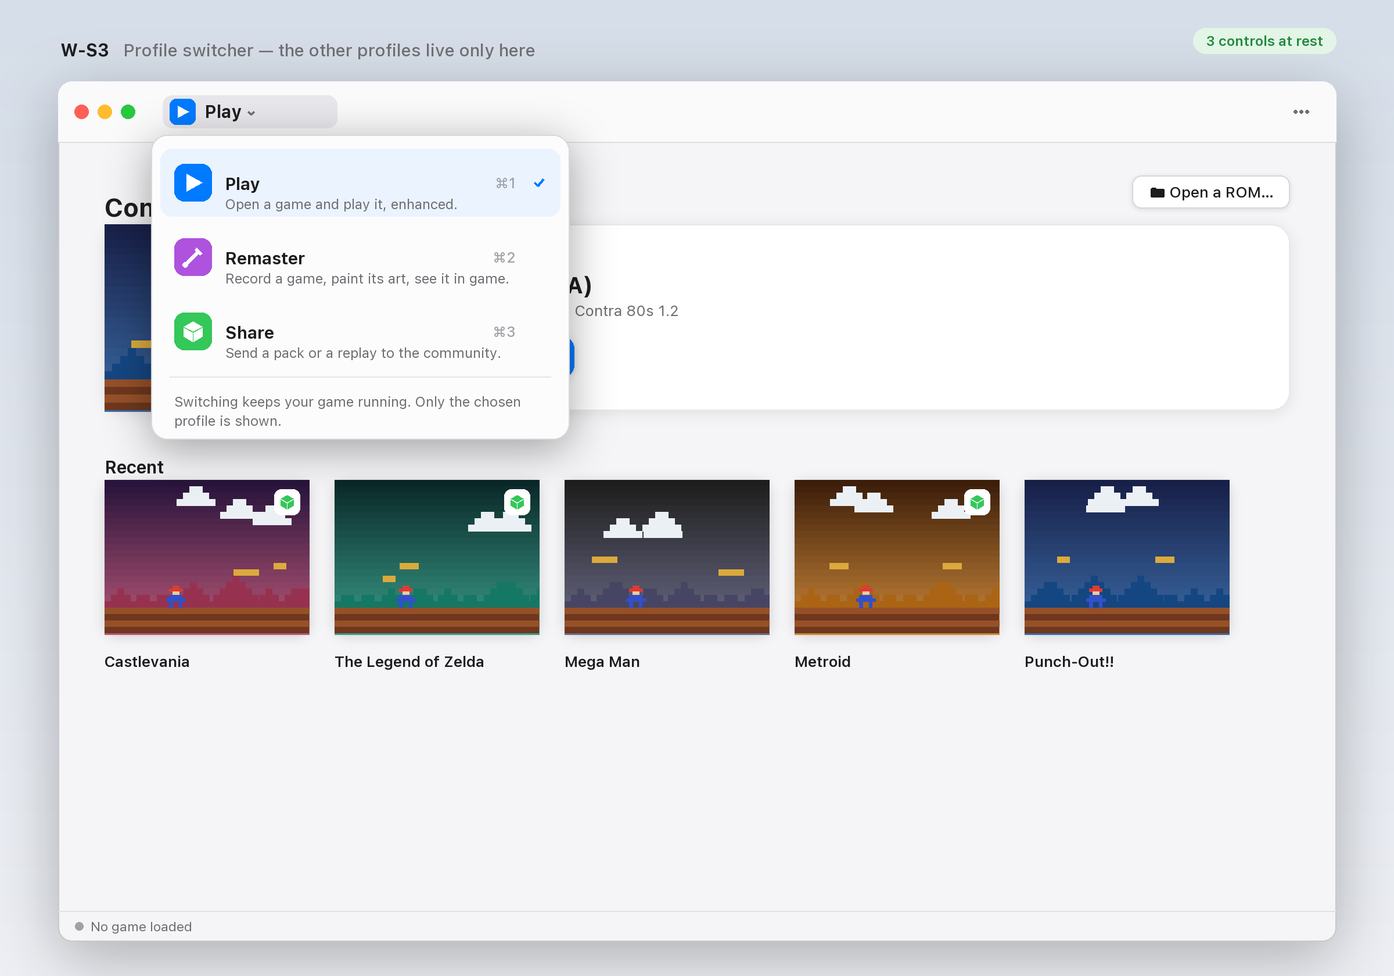
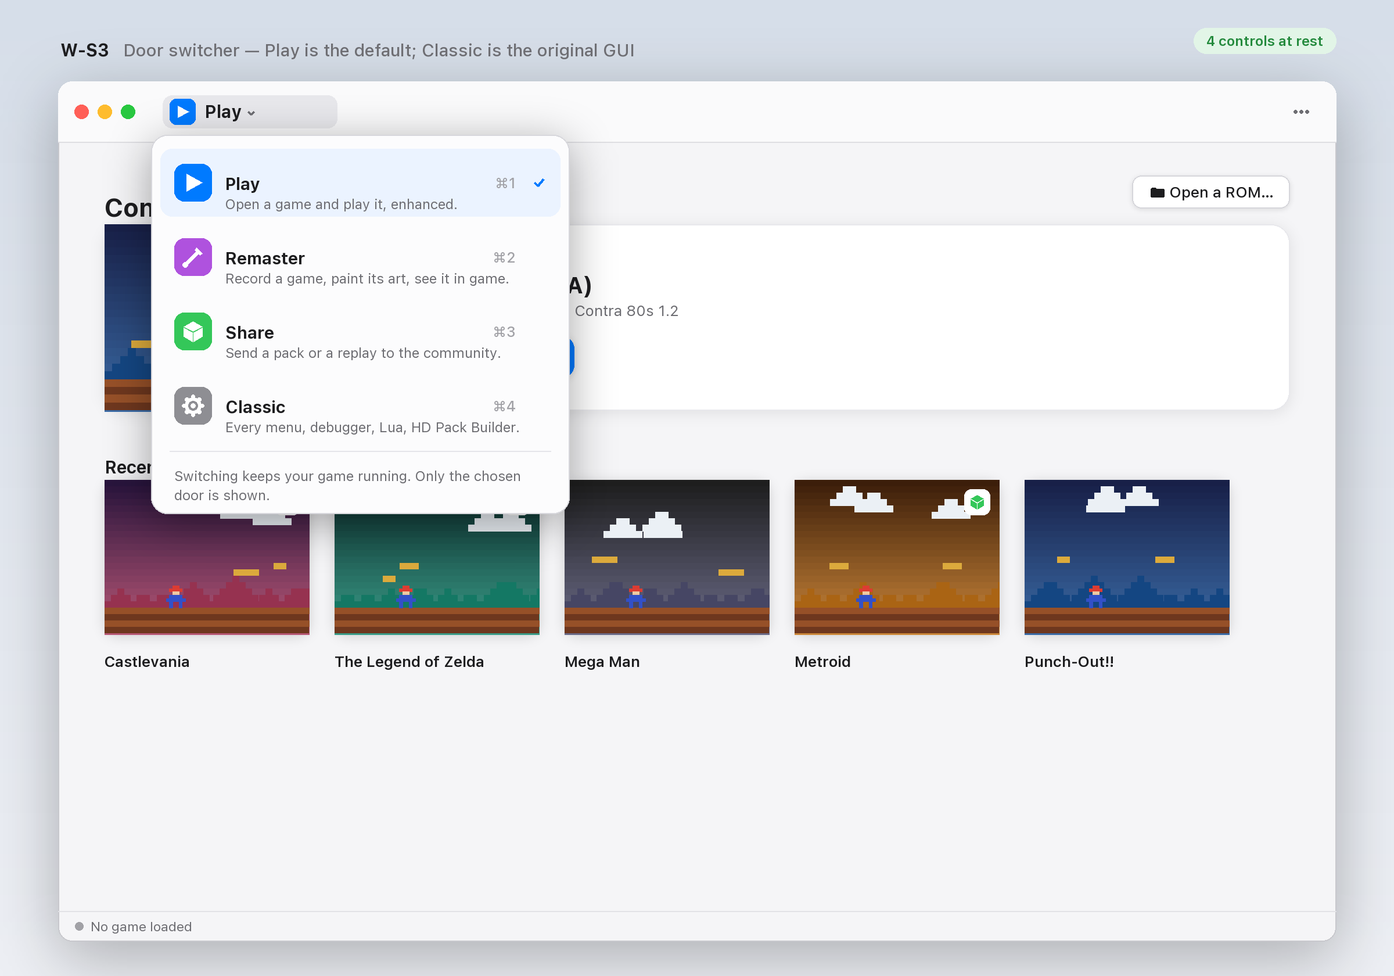
docs(adr): ADR-0250, every menu entry has one place per door; Classic is a fourth door
- ADR-0250 (accepted): Play, Remaster, Share and Classic (Cmd+4) in the
  switcher; Play is the default door. Classic is the original Mesen GUI and
  owns UiMode.Advanced. Each task door gets a short Tools menu holding only
  what its own screens don't, and Classic drops its duplicate entries.
- Renders W-S1, W-S2 (Play's Tools menu) and W-S3 (four doors) redrawn.
- PRD Part B section 13.2, W-S2, W-S3 and 13.8 Q4 amended to match.

Changed region(s): [[0.0938, 0.3714, 0.4375, 0.5571], [0.0938, 0.031, 0.4375, 0.0619]]

diff --git a/scripts/render_gui_wireframes.py b/scripts/render_gui_wireframes.py
@@ -607,7 +607,7 @@ def w_s1():
     play_home_recents(c)
     x0, y0, x1, y1 = WIN
     marks = [(x0 + 175, y0 + 26, "1", "Current profile only — click to switch"),
-             (x1 - 30, y0 + 26, "2", "Classic tools (⋯)"),
+             (x1 - 30, y0 + 26, "2", "The door's tools menu"),
              (x0 + 560, y0 + 190, "3", "One profile's content"),
              (x0 + 300, y1 - 13, "4", "Status, read-only")]
     for mx, my, n, label in marks:
@@ -627,23 +627,35 @@ def w_s2():
     play_home_recents(c)
     c.titlebar("play", tools_open=True)
     x1, y0 = WIN[2], WIN[1]
-    mb = (x1 - 250, y0 + 44, x1 - 14, y0 + 44 + 270)
+    # ADR-0250: Play's own Tools ⋯ — one place per action; the pause overlay
+    # already holds Pause, Save states, Pack, Enhancements, Cheats, Settings, Quit game.
+    # The Play home holds Open a ROM… and the recents, so they are not repeated here.
+    # No game is loaded in this frame: the game items show disabled.
+    rows = [("Reset", "-"), ("Power Cycle", "-"), None,
+            ("Screenshot", "-"), ("Fullscreen", "⌃⌘F"), None,
+            ("Help", ">")]
+    h = 20 + sum(12 if r is None else 30 for r in rows) + 44
+    mb = (x1 - 270, y0 + 44, x1 - 14, y0 + 44 + h)
     c.shadow(mb, 10, blur=14, dy=6, alpha=80)
     c.rrect(mb, 10, fill=(250, 250, 252), outline=(215, 215, 220))
-    items = ["File", "Game", "Options", "Tools", "Debug", "Help"]
-    for i, it in enumerate(items):
-        yy = mb[1] + 10 + i * 30
-        if i == 3:
+    yy = mb[1] + 10
+    for r in rows:
+        if r is None:
+            c.line([(mb[0] + 12, yy + 6), (mb[2] - 12, yy + 6)], SEP)
+            yy += 12
+            continue
+        label, key = r
+        if label == "Fullscreen":
             c.rrect((mb[0] + 6, yy, mb[2] - 6, yy + 26), 6, fill=TINT["play"])
-        col = CARD if i == 3 else TEXT
-        c.text(mb[0] + 18, yy + 13, it, 13.5, 500, col, "lm")
-        c.icon("chev_right", mb[2] - 22, yy + 13, 11, col)
-    yy = mb[1] + 10 + 6 * 30 + 6
-    c.line([(mb[0] + 12, yy), (mb[2] - 12, yy)], SEP)
-    c.icon("check", mb[0] + 20, yy + 22, 11, TEXT)
-    c.text(mb[0] + 34, yy + 22, "Show Classic Menu Bar", 13.5, 500, TEXT, "lm")
-    c.text(mb[0] + 18, yy + 50, "Debugger, Lua, HD Pack Builder, netplay…", 11.5, 400, TEXT2, "lm")
-    c.caption("W-S2", "Classic tools menu (⋯) — unchanged contents")
+        col = CARD if label == "Fullscreen" else (TEXT3 if key == "-" else TEXT)
+        c.text(mb[0] + 18, yy + 13, label, 13.5, 500, col, "lm")
+        if key == ">":
+            c.icon("chev_right", mb[2] - 22, yy + 13, 11, col)
+        elif key and key != "-":
+            c.text(mb[2] - 16, yy + 13, key, 12.5, 400, CARD if col == CARD else TEXT3, "rm")
+        yy += 30
+    c.para(mb[0] + 18, yy + 6, "Disk, coin and tape items appear when the game uses them.", 220, 11.5, 400, TEXT2)
+    c.caption("W-S2", "Play's Tools menu — only what the home and the pause overlay don't hold")
     return c
 
 
@@ -652,25 +664,27 @@ def w_s3():
     play_home_recents(c)
     c.titlebar("play", open_switcher=True)
     x0, y0 = WIN[0], WIN[1]
-    pb = (x0 + 80, y0 + 46, x0 + 440, y0 + 46 + 262)
+    pb = (x0 + 80, y0 + 46, x0 + 440, y0 + 46 + 326)
     c.shadow(pb, 14, blur=18, dy=8, alpha=90)
     c.rrect(pb, 14, fill=(252, 252, 253), outline=(215, 215, 220))
     rows = [("play", "Play", "Open a game and play it, enhanced."),
             ("remaster", "Remaster", "Record a game, paint its art, see it in game."),
-            ("share", "Share", "Send a pack or a replay to the community.")]
+            ("share", "Share", "Send a pack or a replay to the community."),
+            ("classic", "Classic", "Every menu, debugger, Lua, HD Pack Builder.")]
+    tint = dict(TINT, classic=(142, 142, 147))
     for i, (p, n, d) in enumerate(rows):
         yy = pb[1] + 12 + i * 64
         if i == 0:
             c.rrect((pb[0] + 8, yy, pb[2] - 8, yy + 58), 10, fill=(235, 243, 255))
-        c.badge({"play": "play", "remaster": "brush", "share": "box"}[p], pb[0] + 20, yy + 13, 32, TINT[p])
+        c.badge({"play": "play", "remaster": "brush", "share": "box", "classic": "gear"}[p], pb[0] + 20, yy + 13, 32, tint[p])
         c.text(pb[0] + 64, yy + 21, n, 14.5, 650)
         c.text(pb[0] + 64, yy + 40, d, 12, 400, TEXT2)
         c.text(pb[2] - 46, yy + 29, f"⌘{i + 1}", 12.5, 500, TEXT3, "rm")
         if i == 0:
             c.icon("check", pb[2] - 26, yy + 29, 14, TINT["play"])
     c.line([(pb[0] + 16, pb[3] - 54), (pb[2] - 16, pb[3] - 54)], SEP)
-    c.para(pb[0] + 20, pb[3] - 40, "Switching keeps your game running. Only the chosen profile is shown.", 320, 12, 400, TEXT2)
-    c.caption("W-S3", "Profile switcher — the other profiles live only here", 3)
+    c.para(pb[0] + 20, pb[3] - 40, "Switching keeps your game running. Only the chosen door is shown.", 320, 12, 400, TEXT2)
+    c.caption("W-S3", "Door switcher — Play is the default; Classic is the original GUI", 4)
     return c
 
 

diff --git a/docs/roadmap/PRD-mesence-enhancement-ecosystem.md b/docs/roadmap/PRD-mesence-enhancement-ecosystem.md
@@ -2537,9 +2537,13 @@ exists to remove.
   element, a stage map or a pattern page (ADR-0183) — never a tile key.
 - **Share**: a link or a built pack, three fields, the browser form. Also the
   existing *Record and share* for replays (ADR-0205), as a separate card.
-- **Tools ⋯** (top right, always present, never a profile): the classic
-  Mesen menus, debugger, Lua, netplay, HD Pack Builder, cheats. This is where
-  today's Advanced mode goes. It opens a menu, not a mode switch.
+- **Classic** (the fourth door, ADR-0250): the original Mesen GUI — the
+  in-window classic menu bar, the classic styles, debugger, Lua, netplay,
+  HD Pack Builder. This is where today's Advanced mode goes: entering Classic
+  sets `UiMode.Advanced`.
+- **Tools ⋯** (top right of the three task doors, never a profile): a short
+  menu of what the door's own screens don't hold (W-S2). Every action has one
+  place per door (ADR-0250 Decision 1).
 
 Switching workspaces changes what the window shows; it never stops the game,
 rewrites settings, picks a pack, deletes a file or publishes anything. Each
@@ -2550,14 +2554,14 @@ What this is **not**: not three executables, not a first-launch "who are
 you?" question, not a permission model. A player who starts painting is the
 same person at the same ROM.
 
-**Relation to `UiMode`.** `Player`/`Advanced` is not reinterpreted. Proposed:
-a new persisted `Workspace` key (`Play` default) plus a `ShowClassicMenuBar`
-boolean that replaces `UiMode` as the "upgrade keeps my menus" rule of §6
-(default `false` everywhere, user's decision 2026-10-02: an upgraded install
-shows a one-time toast "your menus are under Tools ⋯" instead of keeping the
-bar).
-The classic menu bar, when shown, sits above the switcher and is exactly
-today's `MainMenuView`. ADR-0241 owns this; the migration is a slice.
+**Relation to `UiMode`** (amended by ADR-0250, 2026-10-03). A new persisted
+`Workspace` key (`Play` default; `Classic` is a value of it). `UiMode.Advanced`
+belongs to the Classic door: entering Classic sets it, leaving Classic for a
+task door sets `UiMode.Player`, and an upgraded install whose `UiMode` is
+Advanced opens in Classic. The `ShowClassicMenuBar` toggle and its
+"your menus are under Tools ⋯" toast are withdrawn: Classic's menu bar is
+exactly today's `MainMenuView`, without its duplicates (ADR-0250 Decision 4).
+The migration is a slice.
 
 #### 13.3 Simplicity rules (acceptance, not taste)
 
@@ -2668,38 +2672,46 @@ says *Show file*/*Show folder* — the platform's own term is used on each OS
 - The status line is one sentence, never a control. It is the one place
   that always names the current pack while the bar is visible; W-P2's
   Continue card and W-P4's Pack row repeat it where the user acts on it.
-- Tools ⋯ opens the classic menus as a dropdown tree (File, Game, Options,
-  Tools, Debug, Help) — the same `MainMenuAction` data, rendered as one menu.
-  Optional `ShowClassicMenuBar` puts them back as a bar above (§13.2).
+- Tools ⋯ opens the door's short menu (W-S2, ADR-0250): only what the
+  door's own screens don't hold, from the same `MainMenuAction` data. The
+  classic menus live in the Classic door (§13.2).
 - The left of the bar is the **active profile only** — tinted glyph, name,
   chevron. It is a button that opens W-S3; it is not a tab strip.
 - Elements at rest: 2 (profile switcher + Tools). ✔
 
-**W-S2 — Tools ⋯ dropdown**
+**W-S2 — Tools ⋯ dropdown (Play's; ADR-0250)**
 
 ![W-S2](../media/gui-redesign/W-S2.png)
 
 ```
                                                        ┌──────────────────────┐
-                                                       │ File              ▸  │
-                                                       │ Game              ▸  │
-                                                       │ Options           ▸  │
-                                                       │ Tools             ▸  │
-                                                       │ Debug             ▸  │
-                                                       │ Help              ▸  │
+                                                       │ Reset                │
+                                                       │ Power Cycle          │
+                                                       │ ⟨FDS / VS / barcode /│
+                                                       │  tape, if the game   │
+                                                       │  uses them⟩          │
                                                        ├──────────────────────┤
-                                                       │ [x] Show classic     │
-                                                       │     menu bar         │
-                                                       │ ⟨Debugger, Lua, HD   │
-                                                       │  Pack Builder, …⟩    │
+                                                       │ Screenshot           │
+                                                       │ Fullscreen      ⌃⌘F  │
+                                                       ├──────────────────────┤
+                                                       │ Help              ▸  │
                                                        └──────────────────────┘
 ```
 
-Unchanged content; one new checkbox. This is where `HdPackBuilderWindow`,
-`EnhancementPacksWindow`, debugger, Lua, netplay, cheats and *Record Music*
-stay reachable. Nothing is removed from them in this proposal.
+**One place per door** (ADR-0250 Decision 1). The menu holds only what the
+door's own screens don't: in Play, *Open a ROM…* and the recents live on the
+home (W-P1/W-P2), and Pause, Save states, Pack, Enhancements, Cheats,
+Settings and Quit game on the pause overlay (W-P4). Shortcuts work in every
+door. On macOS *About*, *Settings…* ⌘, and *Quit* ⌘Q are in the system app
+menu; elsewhere they end the menu. Classic is a door: it appears only in
+the switcher (W-S3), never in a menu. Remaster's ⋯ is *Reload pack images*,
+*Record Music*, Enhancement Packs and the log window (the project chip holds
+the project items); Share's is *Play a Replay…*, *Record ▸*, Netplay and
+Screenshot (the home holds *Record and share* and *Share a pack*).
+`HdPackBuilderWindow`, the debugger, Lua and the rest of the classic menus
+are in the Classic door. No task-door entry opens a classic window.
 
-**W-S3 — Profile switcher (the only place the other profiles appear)**
+**W-S3 — Door switcher (the only place the other doors appear)**
 
 ![W-S3](../media/gui-redesign/W-S3.png)
 
@@ -2712,9 +2724,11 @@ stay reachable. Nothing is removed from them in this proposal.
    │ Record a game, paint its art, see it in game.│
    │ ▣  Share                               ⌘3   │
    │    Send a pack or a replay to the community. │
+   │ ⚙  Classic                             ⌘4   │
+   │    Every menu, debugger, Lua, HD Pack Builder.│
    ├──────────────────────────────────────────────┤
    │ Switching keeps your game running. Only the  │
-   │ chosen profile is shown.                     │
+   │ chosen door is shown.                        │
    └──────────────────────────────────────────────┘
 ```
 
@@ -2723,13 +2737,16 @@ stay reachable. Nothing is removed from them in this proposal.
   outside closes it with nothing changed.
 - Each row's one-line description is the README door in the app's words, so
   the switcher teaches the model once and needs no onboarding screen.
-- **Fixed order: 1. Play, 2. Remaster, 3. Share** — the README's door order
-  and the order a person usually meets them (plays, then repaints, then
-  shares). The order never changes with the current profile, recent use or
+- **Fixed order: 1. Play, 2. Remaster, 3. Share, 4. Classic** — the README's
+  door order and the order a person usually meets them (plays, then repaints,
+  then shares), with the full emulator last (ADR-0250). Play is the default
+  door. The order never changes with the current profile, recent use or
   the loaded console; the check mark moves, the rows do not.
-- Shortcuts ⌘1/⌘2/⌘3 switch directly, in that order; they are printed grey
-  on the rows as in a macOS menu (a hint, not a control — rule 2).
-- Elements: 3 rows. ✔
+- Shortcuts ⌘1–⌘4 switch directly, in that order; they are printed grey
+  on the rows as in a macOS menu (a hint, not a control — rule 2). Inside
+  Classic, which has no shell bar, the switcher is a *Workspace* ▸ menu in
+  the classic menu bar.
+- Elements: 4 rows. ✔
 
 ##### 13.5.2 Play
 
@@ -4048,8 +4065,9 @@ switcher (W-S3) or a link that names its destination (rule 11).
 3. ~~`.ora` in zone ②~~ — no; only in Tools ⋯ while ADR-0220 stop
    condition 2 is open (2026-10-02).
 4. ~~`ShowClassicMenuBar` on upgrade~~ — `false`, with a one-time toast
-   "your menus are under Tools ⋯" (2026-10-02). This replaces today's §6
-   promise of a visible bar.
+   "your menus are under Tools ⋯" (2026-10-02). Superseded by ADR-0250
+   (2026-10-03): the toggle and the toast go; an upgraded Advanced install
+   opens in the Classic door, which has the classic menu bar.
 5. ~~Remaster gamepad~~ — no; mouse/trackpad (rule 9 stands, 2026-10-02).
 6. ~~Remaster consoles~~ — answered by ADR-0243 Decision 5: NES first. On
    GB/SMS *Record* is enabled and the paint zone is disabled with its reason;

diff --git a/docs/adr/0250-every-menu-entry-has-one-place-per-door-and-classic-is-a-fourth-door.md b/docs/adr/0250-every-menu-entry-has-one-place-per-door-and-classic-is-a-fourth-door.md
@@ -1,0 +1,63 @@
+# ADR-0250: Every menu entry has one place per door, and Classic is a fourth door
+
+- Status: accepted (2026-10-03). The user asked whether the whole classic menu makes sense in Play (*"sobre o menu, ele deve ser contextual para as 3 portas (play, remaster, share). faz sentido TODAS essas opções pra o Play?"*), then asked for this ADR with the per-door table from the conversation (*"sim, escreve a ADR com essa tabela"*). They replaced the table's "every door" row with a door of its own (*"a porta pode ser "Classic" e não "Todas""*), chose *"4ª porta no switcher (Recomendado)"*, and set the default (*"a porta padrão é a Play"*). They answered the open question and accepted the first draft (*"1. o classic pode ser a GUI original. 2. pode atualizar. No mais eu aceito o ADR"*). After a review of every menu surface they accepted the revised table and extended the no-duplicates rule to Classic (*"sobre os menus aceito sua recomendacao, porém resolva o mesmo item em mais de um lugar mesmo que na versão clássica, sacou?"*). The renders W-S2 and W-S3 and PRD Part B §13 are updated with this ADR; the code is a pending PRD Part B slice and waits for a go-ahead.
+- Date: 2026-10-03
+- Related: PRD Part B §13 (W-S1 shell, W-S2 Tools ⋯ dropdown, W-S3 switcher, W-P4 pause overlay, W-R1 project screen, W-H1 Share home); ADR-0241 (Play, Remaster and Share workspaces); ADR-0249 (the Player GUI follows its renders); ADR-0243 (the Remaster project folder); ADR-0245 (Play's cheats).
+- Supersedes / amends: amends PRD Part B §13 W-S2 (its "Unchanged content… Nothing is removed from them in this proposal" no longer holds: each door has its own Tools ⋯) and W-S3 (four doors instead of three). Amends ADR-0241 twice: *"Advanced tools are an escape hatch, not a fourth audience"* becomes the Classic door, and *"the existing `UiMode` values must not be silently reinterpreted as the new workspace values"* gives way to Decision 2 below, which ties `UiMode.Advanced` to Classic explicitly. The *Show classic menu bar* toggle, its "your menus are under Tools ⋯" toast (PRD Part B §13.8 Q4) and the *Advanced GUI* entry go away. ADR-0241's other rules stand: switching keeps the game running, and opening a specialist tool needs no restart.
+
+## Context
+
+G.1 (ADR-0241) moved the classic menu under Tools ⋯ unchanged. W-S2 approved exactly that: File, Game, Options, Tools, Debug and Help as they always were, plus *Show classic menu bar*. In Player mode, therefore, every workspace carries the whole emulator menu.
+
+Play, the workspace for someone who just wants to play, ends up offering:
+
+- the debugger, its viewers and Lua;
+- the HD Pack Builder, *Reload pack images* and the log window;
+- the video, sound and music recorders;
+- the tape recorder, VS *Insert Coin* and barcode input, even for a game that uses none of them;
+- loose technical options: video filter, region and per-console settings.
+
+Remaster is already partly contextual: it adds *Show Project Folder*, *Switch Project…* and *Compose a Scene…*.
+
+A full review of every menu surface (2026-10-03) found more than 130 leaf items under Tools ⋯ in Player mode. It also found the same action in two places: the pause overlay already holds Save states, Cheats, Pack, Enhancements, Settings and Quit game; the Remaster project chip already holds *Show Project Folder*, *Switch Project…* and *Compose a Scene…*; the Share home already holds *Record and share*. Tools ⋯ also opens classic windows from Player flows, which ADR-0249 removed everywhere else. Inside the classic menu itself, *Install HD Pack* and *Enhancement Packs* both install a pack, *Record* and *Record and Share* both start a movie, and on macOS About, Preferences and Exit belong in the system app menu, which is empty today (`App.axaml`).
+
+The user's answer is to give the full emulator its own door, **Classic**, next to Play, Remaster and Share. The three task doors each get a short, relevant menu. Everything Mesen has is always one switch away.
+
+Non-goals:
+
+- No feature, window or keyboard shortcut is removed from the app. A shortcut keeps working in every door even where its menu entry is hidden.
+- Advanced mode keeps the full classic menu: it becomes the Classic door (Decision 2), with only its duplicates removed (Decision 4).
+- No change to the theme (ADR-0249) of the menu's first level.
+- The rule is about entries: menu items, the pause overlay's rows, the Remaster project chip and the workspace homes' buttons and lists. A settings window that also exposes a value (the Video tab next to a scale menu) is not a second entry.
+
+## Decision
+
+1. **One place per door.** Within a door, every action has exactly one entry across all its surfaces: Tools ⋯ (or Classic's menu bar), the pause overlay, the project chip and the workspace home. When a surface already holds an action, the menu does not repeat it. Keyboard shortcuts are not entries; every shortcut works in every door, even where no entry shows it.
+2. **Four doors; Classic is the original GUI.** The W-S3 switcher lists Play (⌘1), Remaster (⌘2), Share (⌘3) and **Classic** (⌘4); Ctrl instead of ⌘ on Windows and Linux. Classic's subtitle reads "Every menu, debugger, Lua, HD Pack Builder." Classic is the original Mesen GUI: the in-window classic menu bar, the classic styles (MesenStyles), the plain game view, no Play overlay sheets, and Esc as classic Mesen has it. Entering Classic sets `UiMode.Advanced`; leaving it for a task door sets `UiMode.Player`. `Workspace.Classic` is a new persisted value. **Play is the default door**: a fresh install, a settings file without a workspace and an unknown value all open in Play. An upgraded install whose `UiMode` is Advanced opens in Classic, so nobody loses the GUI they chose.
+3. **The task doors' Tools ⋯:**
+
+| Door | Tools ⋯ | Lives elsewhere in the door, so not in ⋯ |
+|---|---|---|
+| **Play** | Reset · Power Cycle · console items only when the loaded game uses them (FDS disk select/eject, VS *Insert Coin*, barcode, tape) · Screenshot · Fullscreen | *Open a ROM…* and the recent games (Play home, W-P1/W-P2; ⌘O works everywhere, and *Quit game* returns to the home); Pause/Resume, Save states, Pack, Enhancements, Cheats, Settings, Quit game (pause overlay, W-P4) |
+| **Remaster** | *Reload pack images* · *Record Music* · Enhancement Packs · Log window | *Show Project Folder*, *Switch Project…*, *Compose a Scene…* (project chip, W-R1); Record and Build (project screen) |
+| **Share** | *Play a Replay…* · *Record* ▸ (video, sound) · Netplay ▸ · Screenshot | *Record and share*, *Share a pack* (Share home, W-H1) |
+
+   Each task door ends with the same tail: *Settings…* (the W-P8 sheet), *Help* ▸ (Check for Updates, Command Line), *About MesenAI*, *Quit MesenAI*. On macOS, *About MesenAI*, *Settings…* ⌘, and *Quit MesenAI* ⌘Q live in the system app menu instead, and the tail keeps only *Help* ▸. Classic is a door, so it appears only in the switcher (W-S3), never as a menu entry. No task-door entry opens a classic window: each one opens its Player sheet, or is not offered in that door.
+4. **Classic loses its duplicates and nothing else:**
+   - *Install HD Pack* merges into *Enhancement Packs*, whose window already installs a pack.
+   - *Movies* ▸ keeps *Play*, *Record* and *Stop*. *Record and Share* is Share's.
+   - On macOS, *About*, *Preferences* and *Exit* move from Help, Options and File to the system app menu.
+   - The four Pause/Resume variants become one entry whose label follows the state (one visible today too; this is a code simplification).
+   - The switcher appears once, as a *Workspace* ▸ menu (Play ⌘1, Remaster ⌘2, Share ⌘3) in the classic menu bar. The shell bar's pill is not shown in Classic.
+   - The Super Game Boy viewers keep both entries but are labelled "(Game Boy)", so the same name never appears twice.
+   - Two dead Help entries (*Online Help*, *Report Bug*, `IsVisible = () => false`) and the disabled hint row under Tools ⋯ are deleted.
+5. **The rule is pure logic.** A host-free rule in `UI/Logic/` (for example `WorkspaceMenu`) maps door, platform and loaded-game capabilities to the visible entries. It is unit-tested in `UI.Tests`: one case per table cell, the console-capability cases, a guard that fails when a menu action belongs to no door, and a guard that fails when one door lists the same action twice across its surfaces.
+6. **Hiding is presentation.** `MainMenuViewModel` keeps building the actions; a door only selects which entries show. Enablement behaves as today.
+
+## Consequences
+
+- **W-S2 and W-S3 are redrawn** (`scripts/render_gui_wireframes.py`): W-S2 shows Play's Tools ⋯, W-S3 shows four doors. Remaster's and Share's menus are specified by the table and have no render of their own.
+- **`Workspace` gains a value, and Classic owns `UiMode.Advanced`.** Persisted settings, the switcher, ⌘-digit handling (`WorkspaceShell.FromShortcutDigit`), the status line and every `IsPlayWorkspace`-style gate must handle Classic, and every place that flips `UiMode` today must go through the door.
+- **One more rule to keep in sync.** Every new menu action must be assigned to a door; the guard tests enforce it, and the duplicate guard keeps a new overlay row from shadowing a menu entry.
+- **Headless tests change.** Tests that reach a specialist entry from Play's Tools ⋯ must switch to Classic first (`WorkspaceShellTests`, the Remaster and Share menu tests). The *Show classic menu bar* and classic-menu toast tests are deleted with the feature.
+- **PRD Part B §13 changes** with this ADR: W-S2's prose, W-S3's row list, §13.6's switching rules and §13.8 Q4.
